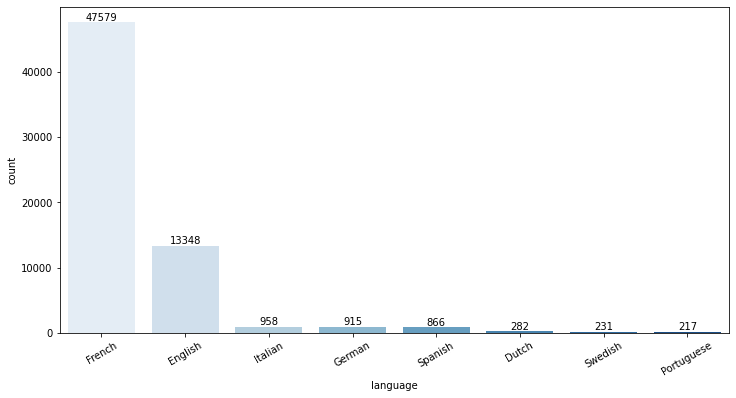
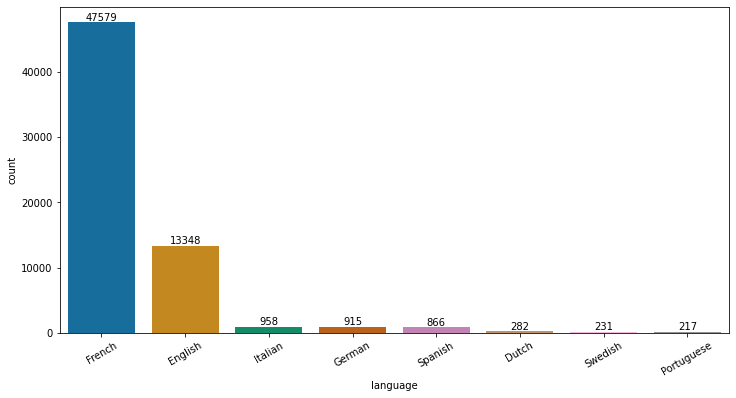
time

Changed region(s): [[0.0938, 0.0302, 0.75, 0.8442]]

diff --git a/docs/time.html b/docs/time.html
@@ -20,6 +20,40 @@ ul.task-list li input[type="checkbox"] {
   margin: 0 0.8em 0.2em -1em; /* quarto-specific, see https://github.com/quarto-dev/quarto-cli/issues/4556 */ 
   vertical-align: middle;
 }
+/* CSS for syntax highlighting */
+pre > code.sourceCode { white-space: pre; position: relative; }
+pre > code.sourceCode > span { display: inline-block; line-height: 1.25; }
+pre > code.sourceCode > span:empty { height: 1.2em; }
+.sourceCode { overflow: visible; }
+code.sourceCode > span { color: inherit; text-decoration: inherit; }
+div.sourceCode { margin: 1em 0; }
+pre.sourceCode { margin: 0; }
+@media screen {
+div.sourceCode { overflow: auto; }
+}
+@media print {
+pre > code.sourceCode { white-space: pre-wrap; }
+pre > code.sourceCode > span { text-indent: -5em; padding-left: 5em; }
+}
+pre.numberSource code
+  { counter-reset: source-line 0; }
+pre.numberSource code > span
+  { position: relative; left: -4em; counter-increment: source-line; }
+pre.numberSource code > span > a:first-child::before
+  { content: counter(source-line);
+    position: relative; left: -1em; text-align: right; vertical-align: baseline;
+    border: none; display: inline-block;
+    -webkit-touch-callout: none; -webkit-user-select: none;
+    -khtml-user-select: none; -moz-user-select: none;
+    -ms-user-select: none; user-select: none;
+    padding: 0 4px; width: 4em;
+  }
+pre.numberSource { margin-left: 3em;  padding-left: 4px; }
+div.sourceCode
+  {   }
+@media screen {
+pre > code.sourceCode > span > a:first-child::before { text-decoration: underline; }
+}
 </style>
 
 
@@ -152,11 +186,103 @@ ul.task-list li input[type="checkbox"] {
 
 </header>
 
-<p>(Coming next. Most frequently mentioned authors over time. Co-authorship / co-editorship numbers over time. Languages over time.)</p>
 <section id="distribution-of-publications-per-year" class="level2">
 <h2 class="anchored" data-anchor-id="distribution-of-publications-per-year">Distribution of publications per year</h2>
 <p>The dataset contains 64169 publication years, with 87 different publication years recorded (some of them are errors). Here, only data starting in 1986 is shown (the bibliography was launched in 1992).</p>
 <p><img src="./figures/pubyear_counts.png" class="img-fluid"></p>
+<div class="cell" data-execution_count="1">
+<details>
+<summary>Code</summary>
+<div class="sourceCode cell-code" id="cb1"><pre class="sourceCode python code-with-copy"><code class="sourceCode python"><span id="cb1-1"><a href="#cb1-1" aria-hidden="true" tabindex="-1"></a><span class="co"># === Imports === </span></span>
+<span id="cb1-2"><a href="#cb1-2" aria-hidden="true" tabindex="-1"></a></span>
+<span id="cb1-3"><a href="#cb1-3" aria-hidden="true" tabindex="-1"></a><span class="im">import</span> re </span>
+<span id="cb1-4"><a href="#cb1-4" aria-hidden="true" tabindex="-1"></a><span class="im">import</span> seaborn <span class="im">as</span> sns</span>
+<span id="cb1-5"><a href="#cb1-5" aria-hidden="true" tabindex="-1"></a><span class="im">from</span> matplotlib <span class="im">import</span> pyplot <span class="im">as</span> plt</span>
+<span id="cb1-6"><a href="#cb1-6" aria-hidden="true" tabindex="-1"></a><span class="im">from</span> os.path <span class="im">import</span> join</span>
+<span id="cb1-7"><a href="#cb1-7" aria-hidden="true" tabindex="-1"></a><span class="im">from</span> os.path <span class="im">import</span> realpath, dirname</span>
+<span id="cb1-8"><a href="#cb1-8" aria-hidden="true" tabindex="-1"></a><span class="im">import</span> os</span>
+<span id="cb1-9"><a href="#cb1-9" aria-hidden="true" tabindex="-1"></a><span class="im">from</span> lxml <span class="im">import</span> etree</span>
+<span id="cb1-10"><a href="#cb1-10" aria-hidden="true" tabindex="-1"></a><span class="im">from</span> io <span class="im">import</span> StringIO, BytesIO</span>
+<span id="cb1-11"><a href="#cb1-11" aria-hidden="true" tabindex="-1"></a><span class="im">from</span> collections <span class="im">import</span> Counter</span>
+<span id="cb1-12"><a href="#cb1-12" aria-hidden="true" tabindex="-1"></a><span class="im">import</span> pandas <span class="im">as</span> pd</span>
+<span id="cb1-13"><a href="#cb1-13" aria-hidden="true" tabindex="-1"></a><span class="im">import</span> numpy <span class="im">as</span> np</span>
+<span id="cb1-14"><a href="#cb1-14" aria-hidden="true" tabindex="-1"></a></span>
+<span id="cb1-15"><a href="#cb1-15" aria-hidden="true" tabindex="-1"></a></span>
+<span id="cb1-16"><a href="#cb1-16" aria-hidden="true" tabindex="-1"></a><span class="co"># === Files and parameters === </span></span>
+<span id="cb1-17"><a href="#cb1-17" aria-hidden="true" tabindex="-1"></a></span>
+<span id="cb1-18"><a href="#cb1-18" aria-hidden="true" tabindex="-1"></a>wdir <span class="op">=</span> join(<span class="st">"/"</span>, <span class="st">"media"</span>, <span class="st">"christof"</span>, <span class="st">"Data"</span>, <span class="st">"Github"</span>, <span class="st">"christofs"</span>, <span class="st">"BIB18"</span>)</span>
+<span id="cb1-19"><a href="#cb1-19" aria-hidden="true" tabindex="-1"></a>bibdatafile <span class="op">=</span> join(wdir, <span class="st">"data"</span>, <span class="st">"BIB18_Zotero-RDF.rdf"</span>) </span>
+<span id="cb1-20"><a href="#cb1-20" aria-hidden="true" tabindex="-1"></a><span class="co">#bibdatafile = join(wdir, "data", "BIB18_Zotero-RDF_TEST.rdf") </span></span>
+<span id="cb1-21"><a href="#cb1-21" aria-hidden="true" tabindex="-1"></a></span>
+<span id="cb1-22"><a href="#cb1-22" aria-hidden="true" tabindex="-1"></a>namespaces <span class="op">=</span> {</span>
+<span id="cb1-23"><a href="#cb1-23" aria-hidden="true" tabindex="-1"></a>    <span class="st">"foaf"</span> : <span class="st">"http://xmlns.com/foaf/0.1/"</span>,</span>
+<span id="cb1-24"><a href="#cb1-24" aria-hidden="true" tabindex="-1"></a>    <span class="st">"bib"</span> : <span class="st">"http://purl.org/net/biblio#"</span>,</span>
+<span id="cb1-25"><a href="#cb1-25" aria-hidden="true" tabindex="-1"></a>    <span class="st">"dc"</span> : <span class="st">"http://purl.org/dc/elements/1.1/"</span>,</span>
+<span id="cb1-26"><a href="#cb1-26" aria-hidden="true" tabindex="-1"></a>    <span class="st">"z"</span> : <span class="st">"http://www.zotero.org/namespaces/export#"</span>,</span>
+<span id="cb1-27"><a href="#cb1-27" aria-hidden="true" tabindex="-1"></a>    <span class="st">"rdf"</span> : <span class="st">"http://www.w3.org/1999/02/22-rdf-syntax-ns#"</span></span>
+<span id="cb1-28"><a href="#cb1-28" aria-hidden="true" tabindex="-1"></a>    }</span>
+<span id="cb1-29"><a href="#cb1-29" aria-hidden="true" tabindex="-1"></a></span>
+<span id="cb1-30"><a href="#cb1-30" aria-hidden="true" tabindex="-1"></a><span class="co"># === Load the dataset === </span></span>
+<span id="cb1-31"><a href="#cb1-31" aria-hidden="true" tabindex="-1"></a></span>
+<span id="cb1-32"><a href="#cb1-32" aria-hidden="true" tabindex="-1"></a><span class="kw">def</span> read_xml(bibdatafile): </span>
+<span id="cb1-33"><a href="#cb1-33" aria-hidden="true" tabindex="-1"></a>    bibdata <span class="op">=</span> etree.parse(bibdatafile)</span>
+<span id="cb1-34"><a href="#cb1-34" aria-hidden="true" tabindex="-1"></a>    <span class="cf">return</span> bibdata</span>
+<span id="cb1-35"><a href="#cb1-35" aria-hidden="true" tabindex="-1"></a>bibdata <span class="op">=</span> read_xml(bibdatafile)</span></code><button title="Copy to Clipboard" class="code-copy-button"><i class="bi"></i></button></pre></div>
+</details>
+</div>
+<div class="cell" data-execution_count="5">
+<details>
+<summary>Code</summary>
+<div class="sourceCode cell-code" id="cb2"><pre class="sourceCode python code-with-copy"><code class="sourceCode python"><span id="cb2-1"><a href="#cb2-1" aria-hidden="true" tabindex="-1"></a></span>
+<span id="cb2-2"><a href="#cb2-2" aria-hidden="true" tabindex="-1"></a><span class="kw">def</span> get_pubyears(bibdata): </span>
+<span id="cb2-3"><a href="#cb2-3" aria-hidden="true" tabindex="-1"></a>    <span class="co"># Setting things up</span></span>
+<span id="cb2-4"><a href="#cb2-4" aria-hidden="true" tabindex="-1"></a>    pubyears <span class="op">=</span> []</span>
+<span id="cb2-5"><a href="#cb2-5" aria-hidden="true" tabindex="-1"></a></span>
+<span id="cb2-6"><a href="#cb2-6" aria-hidden="true" tabindex="-1"></a>    <span class="co"># Find all the instances of publication dates</span></span>
+<span id="cb2-7"><a href="#cb2-7" aria-hidden="true" tabindex="-1"></a>    xpath <span class="op">=</span> <span class="st">"//dc:date/text()"</span></span>
+<span id="cb2-8"><a href="#cb2-8" aria-hidden="true" tabindex="-1"></a>    pubyears <span class="op">=</span> bibdata.xpath(xpath, namespaces<span class="op">=</span>namespaces)</span>
+<span id="cb2-9"><a href="#cb2-9" aria-hidden="true" tabindex="-1"></a></span>
+<span id="cb2-10"><a href="#cb2-10" aria-hidden="true" tabindex="-1"></a>    <span class="co"># Count the occurrences, find the 10 most frequently mentioned publication dates</span></span>
+<span id="cb2-11"><a href="#cb2-11" aria-hidden="true" tabindex="-1"></a>    pubyear_counts <span class="op">=</span> Counter(pubyears)</span>
+<span id="cb2-12"><a href="#cb2-12" aria-hidden="true" tabindex="-1"></a>    pubyear_counts <span class="op">=</span> <span class="bu">dict</span>(<span class="bu">sorted</span>(pubyear_counts.items(), reverse<span class="op">=</span><span class="va">False</span>))</span>
+<span id="cb2-13"><a href="#cb2-13" aria-hidden="true" tabindex="-1"></a></span>
+<span id="cb2-14"><a href="#cb2-14" aria-hidden="true" tabindex="-1"></a>    <span class="co"># Filter data to clean it</span></span>
+<span id="cb2-15"><a href="#cb2-15" aria-hidden="true" tabindex="-1"></a>    pubyear_counts <span class="op">=</span> pd.DataFrame.from_dict(pubyear_counts, orient<span class="op">=</span><span class="st">"index"</span>).reset_index().rename(mapper<span class="op">=</span>{<span class="st">"index"</span>:<span class="st">"year"</span>, <span class="dv">0</span> : <span class="st">"count"</span>}, axis<span class="op">=</span><span class="st">"columns"</span>)    <span class="co">#pubyear_counts = pubyear_counts[pubyear_counts[0] == 1991]</span></span>
+<span id="cb2-16"><a href="#cb2-16" aria-hidden="true" tabindex="-1"></a>    pubyear_counts <span class="op">=</span> pubyear_counts[pubyear_counts[<span class="st">"year"</span>].<span class="bu">str</span>.isnumeric()]</span>
+<span id="cb2-17"><a href="#cb2-17" aria-hidden="true" tabindex="-1"></a>    pubyear_counts.set_index(<span class="st">"year"</span>, inplace<span class="op">=</span><span class="va">True</span>)</span>
+<span id="cb2-18"><a href="#cb2-18" aria-hidden="true" tabindex="-1"></a>    <span class="co"># Remove erroneous years (to be corrected in the data)</span></span>
+<span id="cb2-19"><a href="#cb2-19" aria-hidden="true" tabindex="-1"></a>    pubyear_counts.drop([<span class="st">"134"</span>, <span class="st">"207"</span>, <span class="st">"22"</span>, <span class="st">"30"</span>, <span class="st">"42"</span>, <span class="st">"58"</span>, <span class="st">"76"</span>, <span class="st">"78"</span>, <span class="st">"20"</span>, <span class="st">"201"</span>], inplace<span class="op">=</span><span class="va">True</span>)</span>
+<span id="cb2-20"><a href="#cb2-20" aria-hidden="true" tabindex="-1"></a>    <span class="co"># Remove less relevant years (optional, of course)</span></span>
+<span id="cb2-21"><a href="#cb2-21" aria-hidden="true" tabindex="-1"></a>    pubyear_counts.drop([<span class="st">"1815"</span>, <span class="st">"1834"</span>, <span class="st">"1891"</span>, <span class="st">"1932"</span>, <span class="st">"1945"</span>, <span class="st">"1957"</span>, <span class="st">"1961"</span>, <span class="st">"1969"</span>, <span class="st">"1973"</span>, <span class="st">"1974"</span>, <span class="st">"1975"</span>, <span class="st">"1978"</span>, <span class="st">"1979"</span>, <span class="st">"1981"</span>, <span class="st">"1982"</span>, <span class="st">"1983"</span>, <span class="st">"1984"</span>], inplace<span class="op">=</span><span class="va">True</span>)</span>
+<span id="cb2-22"><a href="#cb2-22" aria-hidden="true" tabindex="-1"></a>    pubyear_counts.reset_index(inplace<span class="op">=</span><span class="va">True</span>)</span>
+<span id="cb2-23"><a href="#cb2-23" aria-hidden="true" tabindex="-1"></a>    <span class="co">#print(pubyear_counts.head())</span></span>
+<span id="cb2-24"><a href="#cb2-24" aria-hidden="true" tabindex="-1"></a></span>
+<span id="cb2-25"><a href="#cb2-25" aria-hidden="true" tabindex="-1"></a>    <span class="co"># Display some key figures</span></span>
+<span id="cb2-26"><a href="#cb2-26" aria-hidden="true" tabindex="-1"></a>    <span class="bu">print</span>(<span class="st">"There are "</span> <span class="op">+</span> <span class="bu">str</span>(<span class="bu">len</span>(pubyears)) <span class="op">+</span> <span class="st">" instances of publication years mentioned in the dataset."</span>)</span>
+<span id="cb2-27"><a href="#cb2-27" aria-hidden="true" tabindex="-1"></a>    <span class="bu">print</span>(<span class="st">"There are "</span> <span class="op">+</span> <span class="bu">str</span>(<span class="bu">len</span>(pubyear_counts)) <span class="op">+</span> <span class="st">" different years mentioned in the dataset."</span>)</span>
+<span id="cb2-28"><a href="#cb2-28" aria-hidden="true" tabindex="-1"></a></span>
+<span id="cb2-29"><a href="#cb2-29" aria-hidden="true" tabindex="-1"></a>    <span class="cf">return</span> pubyear_counts</span>
+<span id="cb2-30"><a href="#cb2-30" aria-hidden="true" tabindex="-1"></a></span>
+<span id="cb2-31"><a href="#cb2-31" aria-hidden="true" tabindex="-1"></a></span>
+<span id="cb2-32"><a href="#cb2-32" aria-hidden="true" tabindex="-1"></a><span class="kw">def</span> visualize_pubyears(pubyear_counts):</span>
+<span id="cb2-33"><a href="#cb2-33" aria-hidden="true" tabindex="-1"></a>    plt.figure(figsize<span class="op">=</span>(<span class="dv">12</span>,<span class="dv">6</span>))</span>
+<span id="cb2-34"><a href="#cb2-34" aria-hidden="true" tabindex="-1"></a>    fig <span class="op">=</span> sns.barplot(data <span class="op">=</span> pubyear_counts, x<span class="op">=</span><span class="st">"year"</span>, y<span class="op">=</span><span class="st">"count"</span>)</span>
+<span id="cb2-35"><a href="#cb2-35" aria-hidden="true" tabindex="-1"></a>    fig.set_xticklabels(fig.get_xticklabels(), rotation<span class="op">=</span><span class="dv">45</span>)</span>
+<span id="cb2-36"><a href="#cb2-36" aria-hidden="true" tabindex="-1"></a>    plt.savefig(join(wdir, <span class="st">"figures"</span>, <span class="st">"pubyear_counts.png"</span>))</span>
+<span id="cb2-37"><a href="#cb2-37" aria-hidden="true" tabindex="-1"></a></span>
+<span id="cb2-38"><a href="#cb2-38" aria-hidden="true" tabindex="-1"></a></span>
+<span id="cb2-39"><a href="#cb2-39" aria-hidden="true" tabindex="-1"></a>pubyear_counts <span class="op">=</span> get_pubyears(bibdata)</span>
+<span id="cb2-40"><a href="#cb2-40" aria-hidden="true" tabindex="-1"></a>visualize_pubyears(pubyear_counts)</span></code><button title="Copy to Clipboard" class="code-copy-button"><i class="bi"></i></button></pre></div>
+</details>
+<div class="cell-output cell-output-stdout">
+<pre><code>There are 64169 instances of publication years mentioned in the dataset.
+There are 38 different years mentioned in the dataset.</code></pre>
+</div>
+<div class="cell-output cell-output-display">
+<p><img src="time_files/figure-html/cell-3-output-2.png" class="img-fluid"></p>
+</div>
+</div>
+<p>Here, only data starting in 1986 is shown (the bibliography was launched in 1992).</p>
 
 
 </section>

diff --git a/docs/languages.html b/docs/languages.html
@@ -180,7 +180,8 @@ pre > code.sourceCode > span > a:first-child::before { text-decoration: underlin
 
 </header>
 
-<div class="cell" data-execution_count="9">
+<p>This section provides some analyses of the languages of publications referenced in the <em>Bibliographie</em>.</p>
+<div class="cell" data-execution_count="1">
 <details>
 <summary>Code</summary>
 <div class="sourceCode cell-code" id="cb1"><pre class="sourceCode python code-with-copy"><code class="sourceCode python"><span id="cb1-1"><a href="#cb1-1" aria-hidden="true" tabindex="-1"></a><span class="co"># === Imports === </span></span>
@@ -220,7 +221,7 @@ pre > code.sourceCode > span > a:first-child::before { text-decoration: underlin
 <span id="cb1-35"><a href="#cb1-35" aria-hidden="true" tabindex="-1"></a>bibdata <span class="op">=</span> read_xml(bibdatafile)</span></code><button title="Copy to Clipboard" class="code-copy-button"><i class="bi"></i></button></pre></div>
 </details>
 </div>
-<div class="cell" data-execution_count="35">
+<div class="cell" data-execution_count="5">
 <details>
 <summary>Code</summary>
 <div class="sourceCode cell-code" id="cb2"><pre class="sourceCode python code-with-copy"><code class="sourceCode python"><span id="cb2-1"><a href="#cb2-1" aria-hidden="true" tabindex="-1"></a><span class="kw">def</span> get_languages(bibdata): </span>
@@ -237,16 +238,17 @@ pre > code.sourceCode > span > a:first-child::before { text-decoration: underlin
 <span id="cb2-12"><a href="#cb2-12" aria-hidden="true" tabindex="-1"></a>    <span class="co"># Visualize using a simple bar chart </span></span>
 <span id="cb2-13"><a href="#cb2-13" aria-hidden="true" tabindex="-1"></a>    lc <span class="op">=</span> pd.DataFrame.from_dict(languages_counts, orient<span class="op">=</span><span class="st">"index"</span>, columns<span class="op">=</span>[<span class="st">"count"</span>]).reset_index().rename({<span class="st">"index"</span> : <span class="st">"language"</span>}, axis<span class="op">=</span><span class="dv">1</span>)</span>
 <span id="cb2-14"><a href="#cb2-14" aria-hidden="true" tabindex="-1"></a>    plt.figure(figsize<span class="op">=</span>(<span class="dv">12</span>,<span class="dv">6</span>))</span>
-<span id="cb2-15"><a href="#cb2-15" aria-hidden="true" tabindex="-1"></a>    pal <span class="op">=</span> sns.color_palette(<span class="st">"Blues"</span>, <span class="bu">len</span>(lc))</span>
+<span id="cb2-15"><a href="#cb2-15" aria-hidden="true" tabindex="-1"></a>    pal <span class="op">=</span> sns.color_palette(<span class="st">"colorblind"</span>, <span class="bu">len</span>(lc))</span>
 <span id="cb2-16"><a href="#cb2-16" aria-hidden="true" tabindex="-1"></a>    fig <span class="op">=</span> sns.barplot(data<span class="op">=</span>lc, x<span class="op">=</span><span class="st">"language"</span>, y<span class="op">=</span><span class="st">"count"</span>, palette<span class="op">=</span>pal)</span>
 <span id="cb2-17"><a href="#cb2-17" aria-hidden="true" tabindex="-1"></a>    fig.set_xticklabels(fig.get_xticklabels(), rotation<span class="op">=</span><span class="dv">30</span>)</span>
 <span id="cb2-18"><a href="#cb2-18" aria-hidden="true" tabindex="-1"></a>    <span class="cf">for</span> i <span class="kw">in</span> fig.containers:</span>
 <span id="cb2-19"><a href="#cb2-19" aria-hidden="true" tabindex="-1"></a>        fig.bar_label(i,)</span>
-<span id="cb2-20"><a href="#cb2-20" aria-hidden="true" tabindex="-1"></a>    plt.savefig(join(wdir, <span class="st">"figures"</span>, <span class="st">"languages_counts.png"</span>))</span>
-<span id="cb2-21"><a href="#cb2-21" aria-hidden="true" tabindex="-1"></a>    <span class="cf">return</span> languages, languages_counts</span>
-<span id="cb2-22"><a href="#cb2-22" aria-hidden="true" tabindex="-1"></a>  </span>
-<span id="cb2-23"><a href="#cb2-23" aria-hidden="true" tabindex="-1"></a>languages, languages_counts <span class="op">=</span> get_languages(bibdata)</span>
-<span id="cb2-24"><a href="#cb2-24" aria-hidden="true" tabindex="-1"></a></span></code><button title="Copy to Clipboard" class="code-copy-button"><i class="bi"></i></button></pre></div>
+<span id="cb2-20"><a href="#cb2-20" aria-hidden="true" tabindex="-1"></a>    plt.tight_layout()</span>
+<span id="cb2-21"><a href="#cb2-21" aria-hidden="true" tabindex="-1"></a>    plt.savefig(join(wdir, <span class="st">"figures"</span>, <span class="st">"languages_counts.png"</span>), dpi<span class="op">=</span><span class="dv">300</span>)</span>
+<span id="cb2-22"><a href="#cb2-22" aria-hidden="true" tabindex="-1"></a>    <span class="cf">return</span> languages, languages_counts</span>
+<span id="cb2-23"><a href="#cb2-23" aria-hidden="true" tabindex="-1"></a>  </span>
+<span id="cb2-24"><a href="#cb2-24" aria-hidden="true" tabindex="-1"></a>languages, languages_counts <span class="op">=</span> get_languages(bibdata)</span>
+<span id="cb2-25"><a href="#cb2-25" aria-hidden="true" tabindex="-1"></a></span></code><button title="Copy to Clipboard" class="code-copy-button"><i class="bi"></i></button></pre></div>
 </details>
 <div class="cell-output cell-output-stdout">
 <pre><code>
@@ -256,7 +258,7 @@ Languages</code></pre>
 <p><img src="languages_files/figure-html/cell-3-output-2.png" class="img-fluid"></p>
 </div>
 </div>
-<div class="cell" data-execution_count="36">
+<div class="cell" data-execution_count="6">
 <details>
 <summary>Code</summary>
 <div class="sourceCode cell-code" id="cb4"><pre class="sourceCode python code-with-copy"><code class="sourceCode python"><span id="cb4-1"><a href="#cb4-1" aria-hidden="true" tabindex="-1"></a>    </span>

diff --git a/docs/index.html b/docs/index.html
@@ -98,7 +98,7 @@ ul.task-list li input[type="checkbox"] {
   </li>  
   <li class="nav-item">
     <a class="nav-link" href="./types.html" rel="" target="">
- <span class="menu-text">Publication types</span></a>
+ <span class="menu-text">Types</span></a>
   </li>  
   <li class="nav-item">
     <a class="nav-link" href="./titles.html" rel="" target="">
@@ -110,7 +110,7 @@ ul.task-list li input[type="checkbox"] {
   </li>  
   <li class="nav-item">
     <a class="nav-link" href="./time.html" rel="" target="">
- <span class="menu-text">Developments over time</span></a>
+ <span class="menu-text">Time</span></a>
   </li>  
 </ul>
             <div class="quarto-navbar-tools ms-auto">
